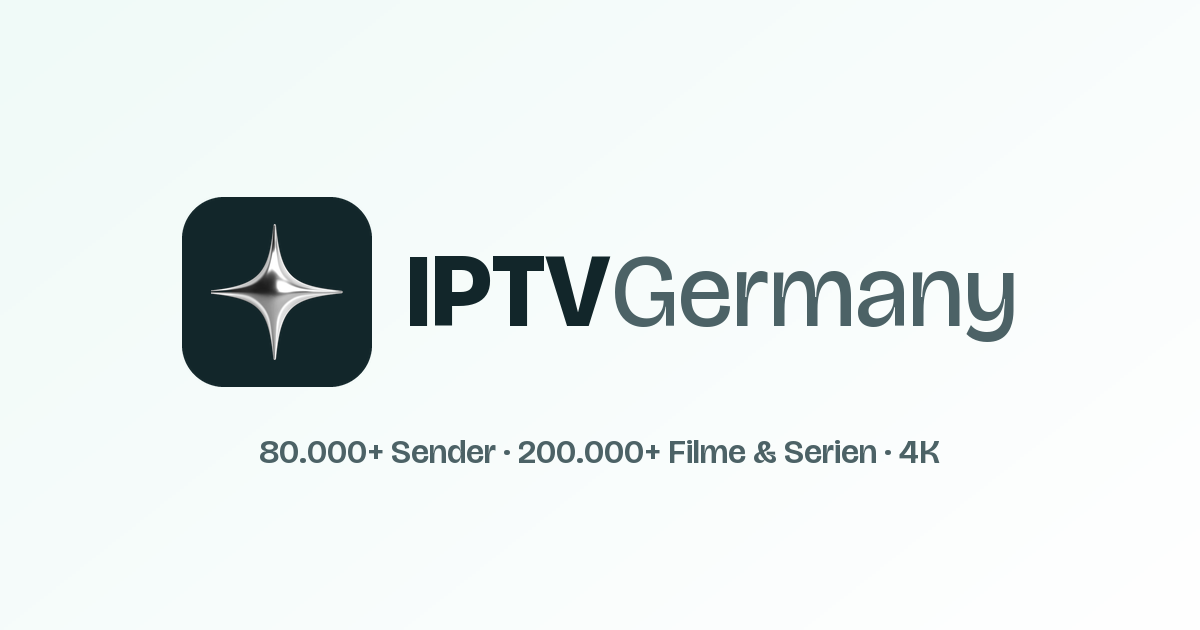
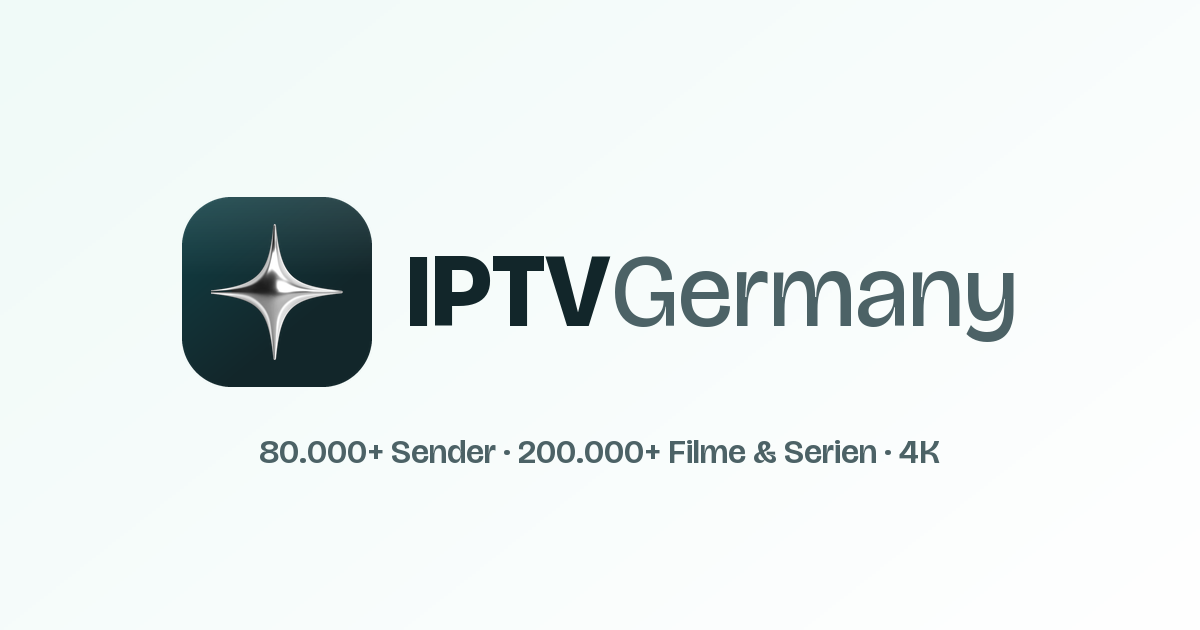
Markenplatte statt flachem Block
Die Bildmarke sitzt jetzt auf einer Platte mit diagonalem Verlauf vom
markengetoenten Dunkel nach Ink, schmalem Lichtsaum, Haarlinien-Ring und
weichem Markenschatten — dieselbe Sprache wie die Glass-Buttons der Seite.
Das flache Schwarz davor las sich wie ein Platzhalter-App-Icon.

Favicons und OG-Bild mit derselben Platte neu erzeugt, damit Tab-Icon,
Kopfzeile und Social-Vorschau dieselbe Marke zeigen. Ausserdem skaliert die
Marke jetzt korrekt: Image.thumbnail vergroessert nie, wodurch sie auf den
512er-Leinwaenden winzig blieb.

Claude-Session: https://claude.ai/code/session_01NocqKu3aeeMMoaQJQiJb1Y

Changed region(s): [[0.1542, 0.3016, 0.3083, 0.4222], [0.2775, 0.573, 0.3083, 0.6032], [0.1542, 0.573, 0.185, 0.6032]]

diff --git a/src/components/ui.tsx b/src/components/ui.tsx
@@ -28,18 +28,27 @@ export const LogoMark: React.FC<{ className?: string }> = ({ className = 'h-6 w-
  */
 export const Logo: React.FC<{ className?: string }> = ({ className = 'h-8 sm:h-9' }) => (
   <a href="#top"
-    className={`flex shrink-0 items-center gap-2 no-underline ${className}`}
+    className={`flex shrink-0 items-center gap-2.5 no-underline ${className}`}
     aria-label={`${BRAND.full} — Startseite`}
   >
+    {/* Markenplatte. Zwei Verlaufsebenen, wie die Glass-Buttons der Seite:
+        unten ein diagonaler Zug vom markengetoenten Dunkel nach Ink, darueber
+        ein schmaler Lichtsaum. Ein flaches Schwarz sah aus wie ein
+        Platzhalter-App-Icon. Identisch aufgebaut wie die erzeugten Favicons,
+        damit Tab-Icon und Kopfzeile dieselbe Marke zeigen.
+
+        Prozentgroesse statt h-full fuer die Marke: der Chip leitet seine
+        Breite ueber `aspect-square` aus der Hoehe ab, ein h-full-Kind darin
+        haette keine aufloesbare Bezugshoehe und schrumpfte auf wenige Pixel. */}
     <span
-      className="flex h-full aspect-square shrink-0 items-center justify-center rounded-[0.65rem]"
-      style={{ background: 'var(--ink-solid)' }}
+      className="flex h-full aspect-square shrink-0 items-center justify-center rounded-[0.7rem] ring-1 ring-white/10 shadow-[0_6px_16px_-8px_rgba(var(--brand-b-deep-rgb),0.6)]"
+      style={{
+        background:
+          'linear-gradient(180deg, rgba(255,255,255,0.14) 0%, rgba(255,255,255,0) 42%),' +
+          'linear-gradient(140deg, color-mix(in srgb, var(--color-orange) 30%, var(--ink-solid)) 0%, var(--ink-solid) 62%)',
+      }}
     >
-      {/* Prozentgroesse statt h-full: der Chip leitet seine Breite ueber
-          `aspect-square` aus der Hoehe ab, und ein h-full-Kind darin hat
-          keine aufloesbare Bezugshoehe — die Marke schrumpfte auf wenige
-          Pixel. 68% laesst ringsum den Rand stehen, den der Chip braucht. */}
-      <LogoMark className="h-[68%] w-[68%]" />
+      <LogoMark className="h-[70%] w-[70%]" />
     </span>
     <span className="flex items-baseline leading-none">
       <span className="text-[17px] font-extrabold tracking-tight text-ink sm:text-[19px]">
